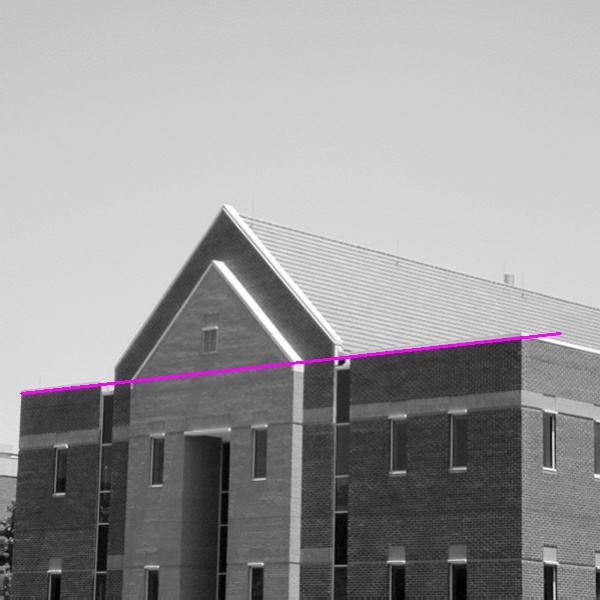
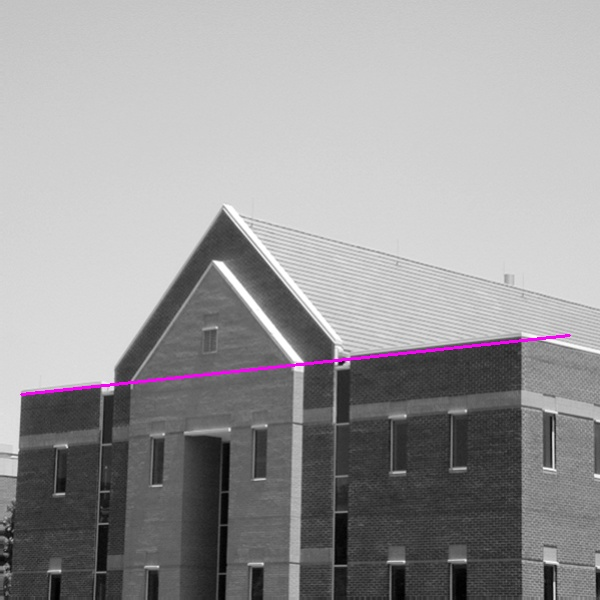
rewrite ransac

Changed region(s): [[0.03, 0.54, 0.96, 0.66]]

diff --git a/homeworks/homework4.py b/homeworks/homework4.py
@@ -1,11 +1,52 @@
 import os
 import os.path
+import random
 from pathlib import Path
 
 import cv2
 import numpy as np
 from omegaconf import OmegaConf
-from sklearn.linear_model import RANSACRegressor
+
+
+class Ransac:
+    def __init__(self, thresh, max_trials, seed):
+        self.thresh = thresh
+        self.max_trials = max_trials
+        self.rnd = random.Random()
+        self.rnd.seed(seed)
+
+        self.k = None
+        self.b = None
+        self.inliners_mask = None
+        self.inliners_count = 0
+
+    def ransac_iter(self, X, y):
+        n = len(X)
+        p1 = self.rnd.randint(0, n - 1)
+        p2 = self.rnd.randint(0, n - 1)
+        while X[p2] == X[p1]:
+            p2 = self.rnd.randint(0, n - 1)
+        if X[p1] > X[p2]:
+            p1, p2 = p2, p1
+        k = (y[p2] - y[p1]) / (X[p2] - X[p1])
+        b = y[p1] - k * X[p1]
+
+        inliners_mask = np.zeros_like(y)
+        inliners_count = 0
+        for i in range(n):
+            if abs(k * X[i] + b - y[i]) <= self.thresh:
+                inliners_mask[i] = 1
+                inliners_count += 1
+        return (k, b, inliners_mask, inliners_count)
+
+    def fit(self, X, y):
+        for i in range(self.max_trials):
+            k, b, inliners_mask, inliners_count = self.ransac_iter(X, y)
+            if inliners_count > self.inliners_count:
+                self.k = k
+                self.b = b
+                self.inliners_mask = inliners_mask
+                self.inliners_count = inliners_count
 
 
 def apply_gaussian_filter(img, sigma):
@@ -48,25 +89,30 @@ def calc_marr_hildreth_edges(img, thresh_percent):
 
 
 def find_line_with_ransac(edges, thresh, max_trials, seed):
-    ransac = RANSACRegressor(
+    ransac = Ransac(
         max_trials=max_trials,
-        residual_threshold=thresh,
-        random_state=seed,
+        thresh=thresh,
+        seed=seed,
     )
     cols, rows = np.where(edges != 0)
     edges_points = np.column_stack((rows, cols))
-    X = edges_points[:, 0].reshape(-1, 1)
+    X = edges_points[:, 0]
     y = edges_points[:, 1]
     ransac.fit(X, y)
 
     edges_inliners_mask = np.zeros_like(edges)
-    for i in range(X.shape[0]):
-        if ransac.inlier_mask_[i]:
-            edges_inliners_mask[y[i], X[i, 0]] = 1
+    x_min = X[0]
+    x_max = X[0]
+    for i, is_inlier in enumerate(ransac.inliners_mask):
+        if not is_inlier:
+            continue
+        edges_inliners_mask[y[i], X[i]] = 1
+        if X[i] > x_max:
+            x_max = X[i]
+        if X[i] < x_min:
+            x_min = X[i]
 
-    k, b = ransac.estimator_.coef_[0], ransac.estimator_.intercept_
-    x_min = np.min(X[ransac.inlier_mask_])
-    x_max = np.max(X[ransac.inlier_mask_])
+    k, b = ransac.k, ransac.b
     y_min = int(k * x_min + b)
     y_max = int(k * x_max + b)
     return (x_min, y_min, x_max, y_max, edges_inliners_mask)
